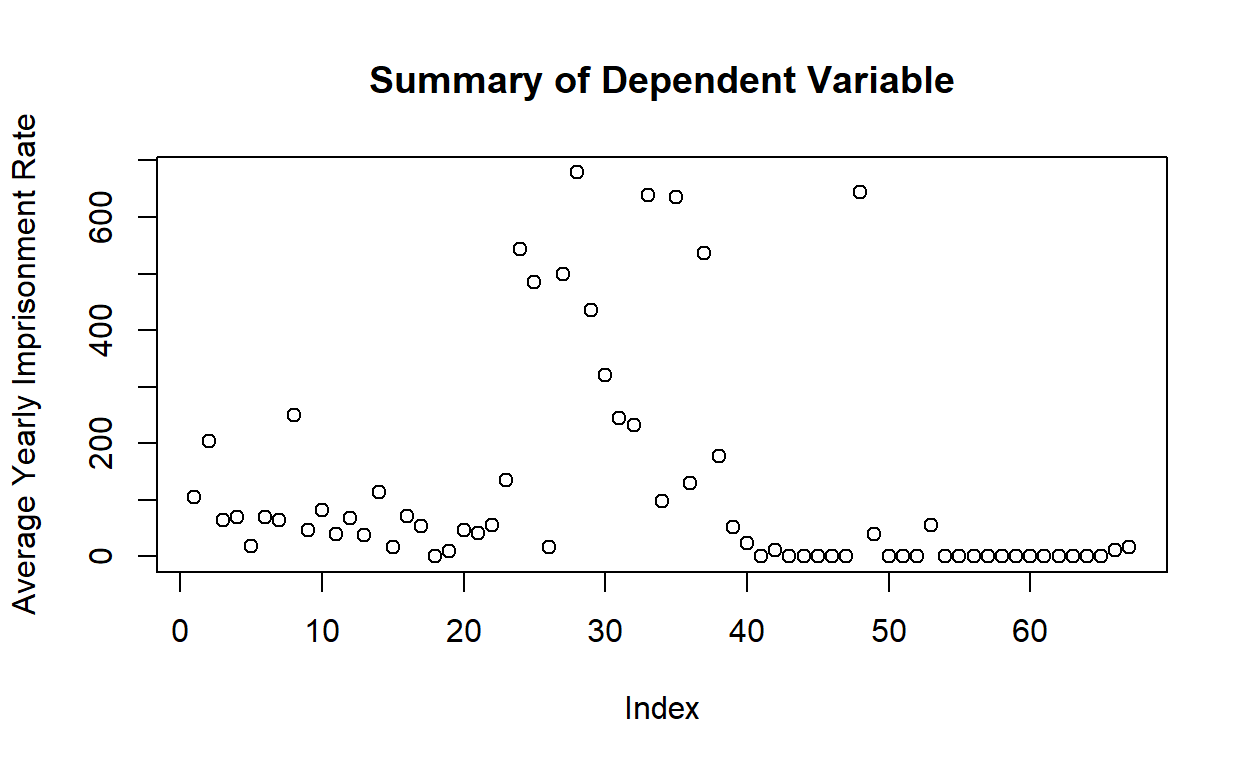
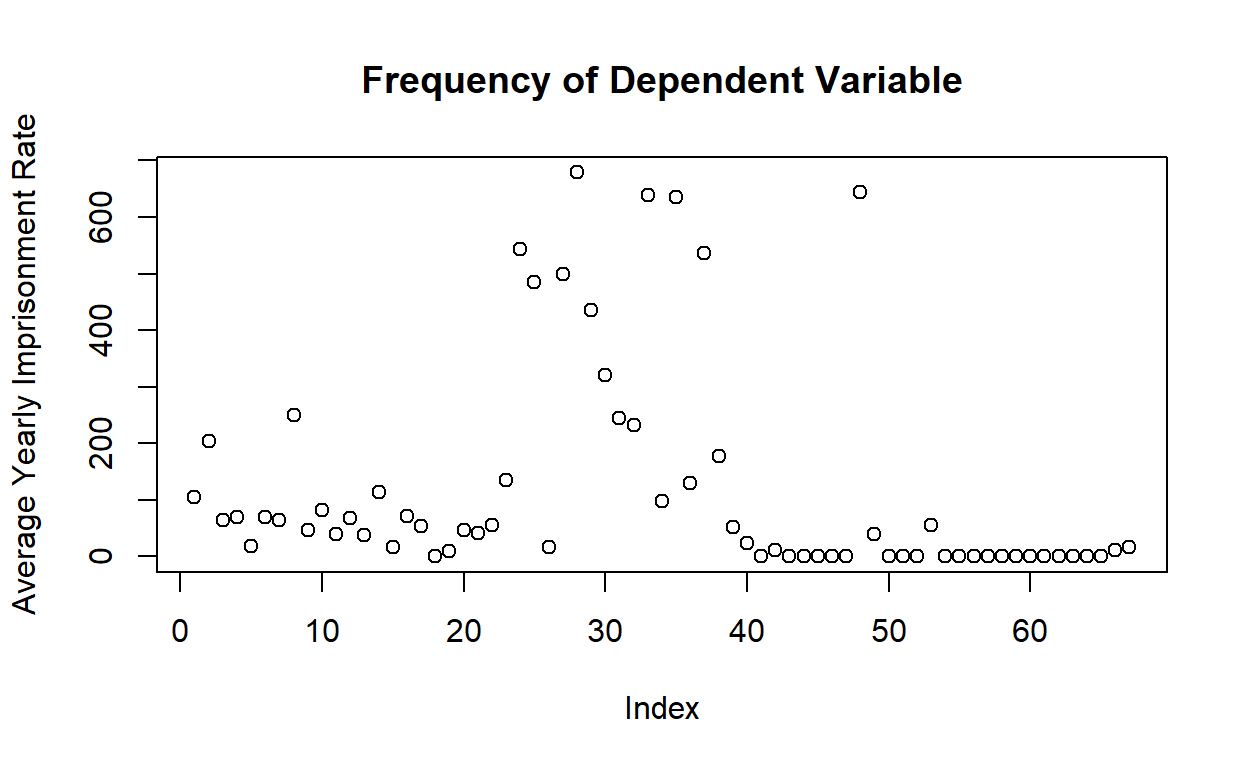
data section plot added

Changed region(s): [[0.2812, 0.0625, 0.7812, 0.125]]

diff --git a/index.html b/index.html
@@ -90,7 +90,7 @@ code span.wa { color: #5e5e5e; font-style: italic; } /* Warning */
   <!--radix_placeholder_meta_tags-->
   <title>Understanding the relationship between eviction and incarceration</title>
 
-  <meta property="description" itemprop="description" content="This study aimed to answer the following research question: Is there a correlation between eviction rates and incarceration? Simple statistical analysis reveals a strong positive correlation between eviction filing rates and incarceration rates in New York City zip codes."/>
+  <meta property="description" itemprop="description" content="This study aimed to answer the following research question: Is there a correlation between eviction rates and incarceration rates? Simple statistical analysis reveals a strong positive correlation between eviction filing rates and incarceration rates in New York City zip codes."/>
 
 
   <meta name="article:author" content="Minerva Garcia"/>
@@ -98,19 +98,19 @@ code span.wa { color: #5e5e5e; font-style: italic; } /* Warning */
   <!--  https://developers.facebook.com/docs/sharing/webmasters#markup -->
   <meta property="og:title" content="Understanding the relationship between eviction and incarceration"/>
   <meta property="og:type" content="article"/>
-  <meta property="og:description" content="This study aimed to answer the following research question: Is there a correlation between eviction rates and incarceration? Simple statistical analysis reveals a strong positive correlation between eviction filing rates and incarceration rates in New York City zip codes."/>
+  <meta property="og:description" content="This study aimed to answer the following research question: Is there a correlation between eviction rates and incarceration rates? Simple statistical analysis reveals a strong positive correlation between eviction filing rates and incarceration rates in New York City zip codes."/>
   <meta property="og:locale" content="en_US"/>
 
   <!--  https://dev.twitter.com/cards/types/summary -->
   <meta property="twitter:card" content="summary"/>
   <meta property="twitter:title" content="Understanding the relationship between eviction and incarceration"/>
-  <meta property="twitter:description" content="This study aimed to answer the following research question: Is there a correlation between eviction rates and incarceration? Simple statistical analysis reveals a strong positive correlation between eviction filing rates and incarceration rates in New York City zip codes."/>
+  <meta property="twitter:description" content="This study aimed to answer the following research question: Is there a correlation between eviction rates and incarceration rates? Simple statistical analysis reveals a strong positive correlation between eviction filing rates and incarceration rates in New York City zip codes."/>
 
   <!--/radix_placeholder_meta_tags-->
   <!--radix_placeholder_rmarkdown_metadata-->
 
   <script type="text/json" id="radix-rmarkdown-metadata">
-  {"type":"list","attributes":{"names":{"type":"character","attributes":{},"value":["title","author","description","output"]}},"value":[{"type":"character","attributes":{},"value":["Understanding the relationship between eviction and incarceration"]},{"type":"list","attributes":{},"value":[{"type":"list","attributes":{"names":{"type":"character","attributes":{},"value":["name"]}},"value":[{"type":"character","attributes":{},"value":["Minerva Garcia"]}]}]},{"type":"character","attributes":{},"value":["This study aimed to answer the following research question: Is there a correlation between eviction rates and incarceration? Simple statistical analysis reveals a strong positive correlation between eviction filing rates and incarceration rates in New York City zip codes."]},{"type":"list","attributes":{"names":{"type":"character","attributes":{},"value":["distill::distill_article"]}},"value":[{"type":"list","attributes":{"names":{"type":"character","attributes":{},"value":["self_contained"]}},"value":[{"type":"logical","attributes":{},"value":[false]}]}]}]}
+  {"type":"list","attributes":{"names":{"type":"character","attributes":{},"value":["title","author","description","output"]}},"value":[{"type":"character","attributes":{},"value":["Understanding the relationship between eviction and incarceration"]},{"type":"list","attributes":{},"value":[{"type":"list","attributes":{"names":{"type":"character","attributes":{},"value":["name"]}},"value":[{"type":"character","attributes":{},"value":["Minerva Garcia"]}]}]},{"type":"character","attributes":{},"value":["This study aimed to answer the following research question: Is there a correlation between eviction rates and incarceration rates? Simple statistical analysis reveals a strong positive correlation between eviction filing rates and incarceration rates in New York City zip codes."]},{"type":"list","attributes":{"names":{"type":"character","attributes":{},"value":["distill::distill_article"]}},"value":[{"type":"list","attributes":{"names":{"type":"character","attributes":{},"value":["self_contained"]}},"value":[{"type":"logical","attributes":{},"value":[false]}]}]}]}
   </script>
   <!--/radix_placeholder_rmarkdown_metadata-->
   
@@ -1495,7 +1495,7 @@ code span.wa { color: #5e5e5e; font-style: italic; } /* Warning */
 <!--radix_placeholder_front_matter-->
 
 <script id="distill-front-matter" type="text/json">
-{"title":"Understanding the relationship between eviction and incarceration","description":"This study aimed to answer the following research question: Is there a correlation between eviction rates and incarceration? Simple statistical analysis reveals a strong positive correlation between eviction filing rates and incarceration rates in New York City zip codes.","authors":[{"author":"Minerva Garcia","authorURL":"#","affiliation":"&nbsp;","affiliationURL":"#","orcidID":""}]}
+{"title":"Understanding the relationship between eviction and incarceration","description":"This study aimed to answer the following research question: Is there a correlation between eviction rates and incarceration rates? Simple statistical analysis reveals a strong positive correlation between eviction filing rates and incarceration rates in New York City zip codes.","authors":[{"author":"Minerva Garcia","authorURL":"#","affiliation":"&nbsp;","affiliationURL":"#","orcidID":""}]}
 </script>
 
 <!--/radix_placeholder_front_matter-->
@@ -1508,7 +1508,7 @@ code span.wa { color: #5e5e5e; font-style: italic; } /* Warning */
 <h1>Understanding the relationship between eviction and incarceration</h1>
 <!--radix_placeholder_categories-->
 <!--/radix_placeholder_categories-->
-<p>This study aimed to answer the following research question: Is there a correlation between eviction rates and incarceration? Simple statistical analysis reveals a strong positive correlation between eviction filing rates and incarceration rates in New York City zip codes.</p>
+<p>This study aimed to answer the following research question: Is there a correlation between eviction rates and incarceration rates? Simple statistical analysis reveals a strong positive correlation between eviction filing rates and incarceration rates in New York City zip codes.</p>
 </div>
 
 <div class="d-byline">
@@ -1520,7 +1520,7 @@ code span.wa { color: #5e5e5e; font-style: italic; } /* Warning */
 
 <div class="d-article">
 <h2 id="introduction">Introduction</h2>
-<p>The United States has an affordable housing and mass incarceration problem. Sociologist Matthew Desmond, founder of the Eviction Lab at Princeton University, estimated that an eviction is filed every four minutes. According to a 2023 report by the Prison Policy Initiative, the prison population is increasing as pandemic-era reform is retracted. Both crises disproportionately impact marginalized communities, especially poor Latinxs and Black people. Far too little attention has been paid to the relationship between mass incarceration and the eviction crisis in the U.S. despite its devastating effects. Although meaningful research has been conducted on the importance of transitional housing as a prisoner reentry program, there is a general lack of research on the relationship between housing insecurity and incarceration before an individual makes contact with the criminal justice system. Evictions disproportionately impact poor people of color who live in disadvantaged neighborhoods and expose them to the legal system through housing court. Recent scholarship has tried to understand the effects of eviction on families and adults individually. In particular, the work of sociologists Aaron Gottlieb and Jessica Moose has shown that mothers who have been evicted more than two times have a higher chance of experiencing criminal justice involvement and that both recent and less recent evictions are associated with criminal justice involvement (Gottlieb and Moose, 2018). This finding informed the guiding research question for my project: Is there a correlation between eviction and incarceration? In this study, I examine the relationship between eviction rates in a particular zip code in New York City and its corresponding incarceration rate. I hypothesized that the zip codes with the highest eviction filing rates have the highest number of incarcerated people. After running statistical tests, I conclude that there is a statistically significant correlation between eviction rates and incarceration rates in New York City zip codes.</p>
+<p>The United States has an affordable housing and mass incarceration problem. Sociologist Matthew Desmond, founder of the Eviction Lab at Princeton University, estimated that an eviction is filed every four minutes. According to a 2023 report by the Prison Policy Initiative, the prison population is increasing as pandemic-era reform is retracted. Both crises disproportionately impact marginalized communities, especially poor Latinxs and Black people. Far too little attention has been paid to the relationship between mass incarceration and the eviction crisis in the U.S. despite its devastating effects. Although meaningful research has been conducted on the importance of transitional housing as a prisoner reentry program, there is a general lack of research on the relationship between housing insecurity and incarceration before an individual makes contact with the criminal justice system. Evictions disproportionately impact poor people of color who live in disadvantaged neighborhoods and expose them to the legal system through housing court. Recent scholarship has tried to understand the effects of eviction on families and adults individually. In particular, the work of sociologists Aaron Gottlieb and Jessica Moose has shown that mothers who have been evicted more than two times have a higher chance of experiencing criminal justice involvement and that both recent and less recent evictions are associated with criminal justice involvement (Gottlieb and Moose, 2018). This finding informed the guiding research question for my project: Is there a correlation between eviction and incarceration? In this study, I examine the relationship between eviction rates in a particular zip code in New York City and its corresponding incarceration rate. I hypothesized that the zip codes with the highest eviction filing rates have the highest number of incarcerated people. After running statistical tests, I conclude that there is a statistically significant positive correlation between the eviction rate of a particular zip code in New York City and its corresponding incarceration rate.</p>
 <h2 id="data-section">Data Section</h2>
 <p>This is an cross-sectional observational study, which means my findings cannot be interpreted causally. The independent variable is the eviction filing rate in 2020. The key dependent variable is the imprisonment rate in 2020.</p>
 <p>To determine whether there was an association between eviction rates and incarceration, this study used data provided by the Eviction Lab and Prison Policy Initiative. I used the Eviction Lab’s 2020-2021 data on eviction filings by zip code in New York state. I named this dataset <code>evictions_ny</code>. The Eviction Lab calculated the monthly average eviction filing rate by collecting information from public-facing state court data about each jurisdiction in New York state and created a dataset for analysis. For this study, the jurisdiction of interest was New York City. This dataset was available in a CSV file so it was easily imported.</p>
@@ -1568,9 +1568,10 @@ code span.wa { color: #5e5e5e; font-style: italic; } /* Warning */
 <p><img src="index_files/figure-html5/unnamed-chunk-2-1.png" width="624" /></p>
 </div>
 <p>An initial look at the scatter plot suggests a high correlation between the eviction filing rate and imprisonment rate, with striking differences for non-white-majority zip codes compared to white-majority zip codes. There is a cluster of data points for the white-majority zip codes in New York City in the bottom left, indicating that white-majority zip codes have low average eviction filing rates and low imprisonment rates. Interestingly, the Latinx-majority zip codes are clustered in a positive direction in the middle of the plot. This suggests that the more eviction filings a Latinx zip code has, the higher the imprisonment rate is for that zip code. The zip codes labeled “Other” (which means another racial/ethnic group is the majority, or there is no group with &gt;50% of the population in the zip code) had a high imprisonment rate no matter the average eviction filing rate. Black-majority zip codes have a similar average eviction filing rate as Latinx-majority zip codes but a much higher imprisonment rate than Latinx-majority and white-majority zip codes.</p>
+<p>After I merged both datasets and created <code>nyc_eviction_imprison</code>, I created a plot that visualizes the main outcome of interest which is the average yearly imprisonment rate of each zip code in New York City. This plot shows the frequency of the dependent variable.</p>
 <div class="layout-chunk" data-layout="l-body">
 <div class="sourceCode">
-<pre class="sourceCode r"><code class="sourceCode r"><span><span class='fu'><a href='https://rdrr.io/r/graphics/plot.default.html'>plot</a></span><span class='op'>(</span><span class='va'>nyc_eviction_imprison</span><span class='op'>$</span><span class='va'>avg_yearly_imprison_rate</span>, main <span class='op'>=</span> <span class='st'>"Summary of Dependent Variable"</span>, </span>
+<pre class="sourceCode r"><code class="sourceCode r"><span><span class='fu'><a href='https://rdrr.io/r/graphics/plot.default.html'>plot</a></span><span class='op'>(</span><span class='va'>nyc_eviction_imprison</span><span class='op'>$</span><span class='va'>avg_yearly_imprison_rate</span>, main <span class='op'>=</span> <span class='st'>"Frequency of Dependent Variable"</span>, </span>
 <span>     xlab <span class='op'>=</span> <span class='st'>"Index"</span>, ylab <span class='op'>=</span> <span class='st'>"Average Yearly Imprisonment Rate"</span><span class='op'>)</span></span></code></pre>
 </div>
 <p><img src="index_files/figure-html5/unnamed-chunk-3-1.png" width="624" /></p>
@@ -1584,12 +1585,17 @@ code span.wa { color: #5e5e5e; font-style: italic; } /* Warning */
 <span>    <span class='cn'>TRUE</span> <span class='op'>~</span> <span class='fl'>0</span><span class='op'>)</span><span class='op'>)</span></span>
 <span></span>
 <span><span class='kw'><a href='https://rdrr.io/r/base/library.html'>library</a></span><span class='op'>(</span><span class='va'><a href='https://modelsummary.com'>modelsummary</a></span><span class='op'>)</span></span>
+<span><span class='va'>var_labels</span> <span class='op'>&lt;-</span> <span class='fu'><a href='https://rdrr.io/r/base/c.html'>c</a></span><span class='op'>(</span><span class='st'>"(Intercept)"</span> <span class='op'>=</span> <span class='st'>"Intercept"</span>,</span>
+<span>                <span class='st'>"avg_yearly_filings"</span> <span class='op'>=</span> <span class='st'>"Average Yearly Eviction Filings"</span>,</span>
+<span>                <span class='st'>"white_ind"</span> <span class='op'>=</span> <span class='st'>"White-Majority Zip Code Indicator"</span><span class='op'>)</span></span>
 <span><span class='va'>model1</span> <span class='op'>&lt;-</span> <span class='fu'><a href='https://rdrr.io/r/stats/lm.html'>lm</a></span><span class='op'>(</span><span class='va'>avg_yearly_imprison_rate</span> <span class='op'>~</span> <span class='va'>avg_yearly_filings</span>, data <span class='op'>=</span> <span class='va'>nyc_eviction_imprison</span><span class='op'>)</span></span>
 <span></span>
 <span><span class='va'>model2</span> <span class='op'>&lt;-</span> <span class='fu'><a href='https://rdrr.io/r/base/summary.html'>summary</a></span><span class='op'>(</span><span class='fu'><a href='https://rdrr.io/r/stats/lm.html'>lm</a></span><span class='op'>(</span><span class='va'>avg_yearly_imprison_rate</span> <span class='op'>~</span> <span class='va'>avg_yearly_filings</span> <span class='op'>+</span></span>
 <span>     <span class='va'>white_ind</span>, data <span class='op'>=</span> <span class='va'>nyc_eviction_imprison</span><span class='op'>)</span><span class='op'>)</span></span>
 <span></span>
-<span><span class='fu'>modelsummary</span><span class='fu'>::</span><span class='fu'><a href='https://rdrr.io/pkg/modelsummary/man/modelsummary.html'>modelsummary</a></span><span class='op'>(</span><span class='fu'><a href='https://rdrr.io/r/base/list.html'>list</a></span><span class='op'>(</span><span class='st'>"NYC - 1 explanatory var."</span> <span class='op'>=</span> <span class='va'>model1</span>, <span class='st'>"NYC - 2 explanatory var."</span> <span class='op'>=</span> <span class='va'>model2</span><span class='op'>)</span>, </span>
+<span><span class='fu'><a href='https://rdrr.io/pkg/modelsummary/man/modelsummary.html'>modelsummary</a></span><span class='op'>(</span>coef_map <span class='op'>=</span> <span class='va'>var_labels</span>, </span>
+<span>                           <span class='fu'><a href='https://rdrr.io/r/base/list.html'>list</a></span><span class='op'>(</span><span class='st'>"Model 1: NYC - 1 explanatory variable"</span> <span class='op'>=</span> <span class='va'>model1</span>,</span>
+<span>                                <span class='st'>"Model 2: NYC - 2 explanatory variables"</span> <span class='op'>=</span> <span class='va'>model2</span><span class='op'>)</span>, </span>
 <span>             stars <span class='op'>=</span> <span class='fu'><a href='https://rdrr.io/r/base/c.html'>c</a></span><span class='op'>(</span><span class='st'>"*"</span> <span class='op'>=</span> <span class='fl'>0.05</span>, <span class='st'>"**"</span> <span class='op'>=</span> <span class='fl'>0.01</span>, <span class='st'>"***"</span> <span class='op'>=</span> <span class='fl'>0.001</span><span class='op'>)</span><span class='op'>)</span></span></code></pre>
 </div>
 <table style="NAborder-bottom: 0; width: auto !important; margin-left: auto; margin-right: auto;" class="table">
@@ -1598,17 +1604,17 @@ code span.wa { color: #5e5e5e; font-style: italic; } /* Warning */
 <th style="text-align:left;">
 </th>
 <th style="text-align:center;">
-NYC - 1 explanatory var.
+Model 1: NYC - 1 explanatory variable
 </th>
 <th style="text-align:center;">
- NYC - 2 explanatory var.
+ Model 2: NYC - 2 explanatory variables
 </th>
 </tr>
 </thead>
 <tbody>
 <tr>
 <td style="text-align:left;">
-(Intercept)
+Intercept
 </td>
 <td style="text-align:center;">
 18.677
@@ -1629,7 +1635,7 @@ NYC - 1 explanatory var.
 </tr>
 <tr>
 <td style="text-align:left;">
-avg_yearly_filings
+Average Yearly Eviction Filings
 </td>
 <td style="text-align:center;">
 1.896***
@@ -1650,7 +1656,7 @@ avg_yearly_filings
 </tr>
 <tr>
 <td style="text-align:left;">
-white_ind
+White-Majority Zip Code Indicator
 </td>
 <td style="text-align:center;">
 </td>
@@ -1772,7 +1778,7 @@ RMSE
 <h2 id="conclusion">Conclusion</h2>
 <p>This study on New York City has found that a strong correlation between a zip code’s eviction rates and corresponding imprisonment rate exists. In particular, for every unit increase in the average yearly eviction filings, there is an increase of 1.896 percentage points in the imprisonment rate, no matter the racial makeup of that zip code. If we control for whether a zip code has a white majority, there is an increase of 1.813 percentage points in the imprisonment rate for every unit increase in the average yearly eviction filings. Both results are highly significant at the 0.001 level.</p>
 <p>While this study used data on New York City, it is likely that we will find similar associations in large urban cities like Chicago, Boston, and Philadelphia. I have attempted to control for one possible confounder (whether a zip code has a white-majority). If I had more time, I would have also controlled for zip code’s income level and distinguishing which zip codes were low-income. Controlling for income is an important confounder because both eviction and incarceration disproportionately impact people in poverty. I would have merged another dataset containing each census tract’s income data and ran another regression. Another limitation is that there were only 67 observations (zip codes) in the regression and most zip codes had a white-majority. So, my findings have to be interpreted with caution to not overgeneralize to all populations. Additionally, evictions are not random so there is potential for bias (such as a person’s income level). Although there are limitations to my study, my findings can still be interpreted with caution.</p>
-<p>Overall, this study reveals a deeper connection between eviction rates in zip codes and their incarceration rate that has previously been overlooked. There is a strong positive correlation between eviction and incarceration, suggesting that eviction impacts people’s lives beyond the forced removal from their homes. This study should be expanded on to determine whether evictions can predict contact with the criminal justice system.</p>
+<p>Overall, this study reveals a deeper connection between eviction rates in zip codes and their incarceration rate that has previously been overlooked. There is a strong positive correlation between eviction and incarceration, suggesting that eviction impacts people’s lives beyond the forced removal from their homes. Future research should expand on my study and examine a causal effect to determine whether evictions can lead to contact with the criminal justice system.</p>
 <h2 id="references">References</h2>
 <p>Gottlieb, A., &amp; Moose, J. W. (2018). The Effect of Eviction on Maternal Criminal Justice Involvement. SOCIUS. <a href="https://journals.sagepub.com/doi/pdf/10.1177/2378023118808965" class="uri">https://journals.sagepub.com/doi/pdf/10.1177/2378023118808965</a></p>
 <p>Peter Hepburn, Jacob Haas, Renee Louis, Adam Chapnik, Danny Grubbs-Donovan, Olivia Jin, Jasmine Rangel, and Matthew Desmond. Eviction Tracking System: Version 2.0. Princeton: Princeton University, 2020. www.evictionlab.org</p>
